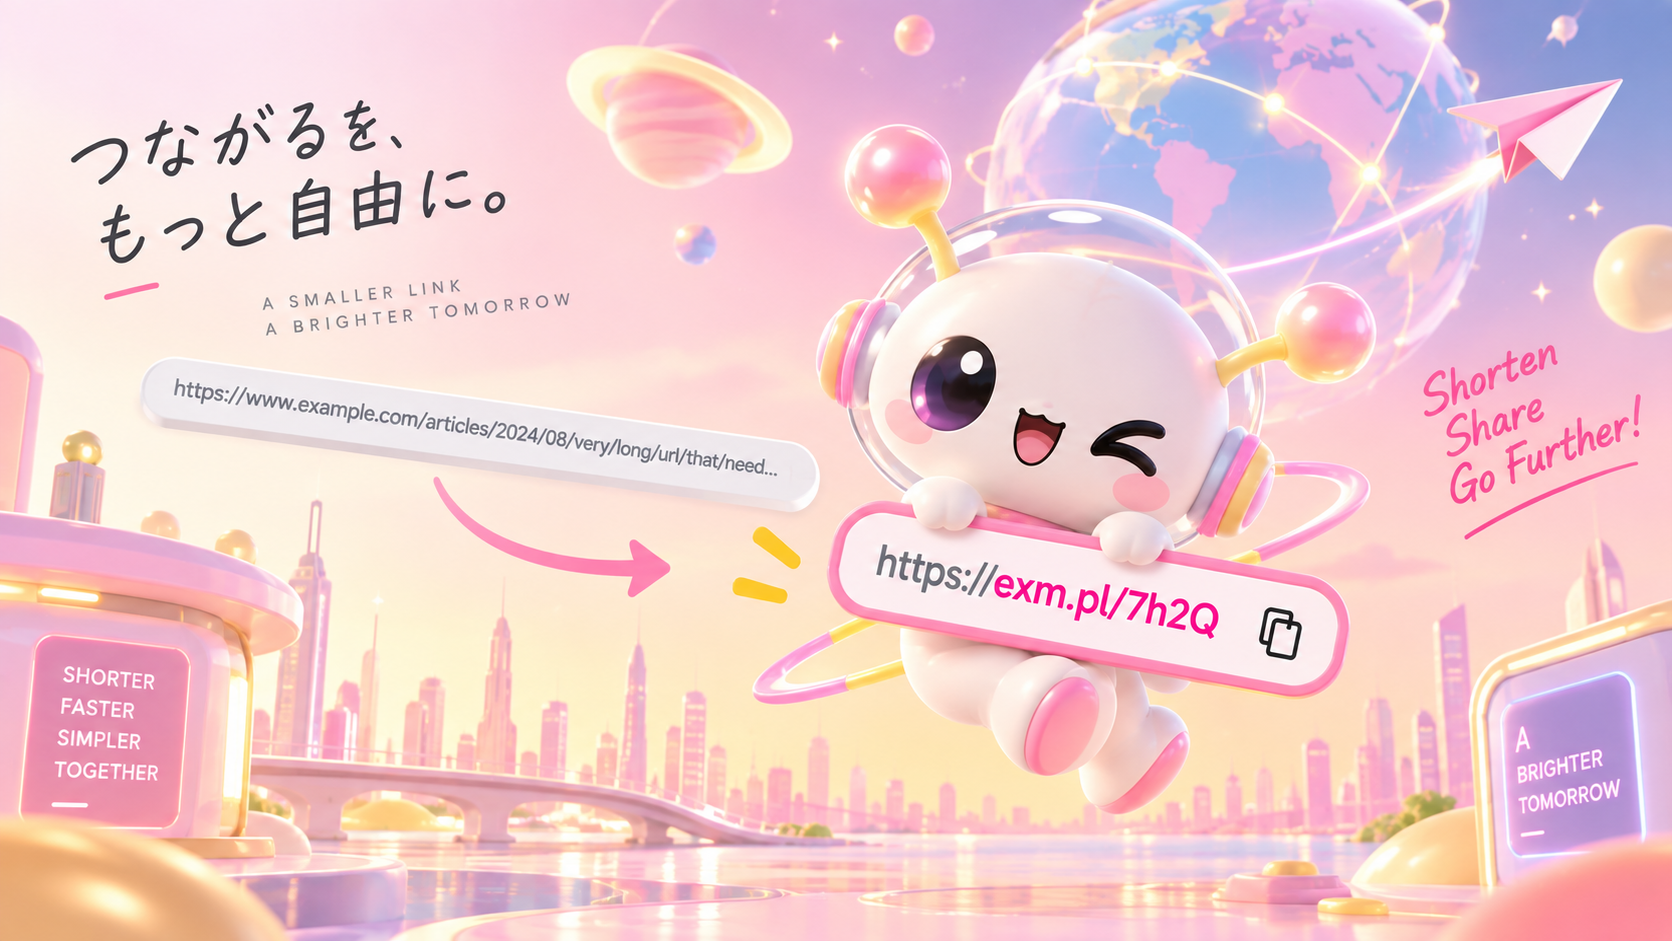
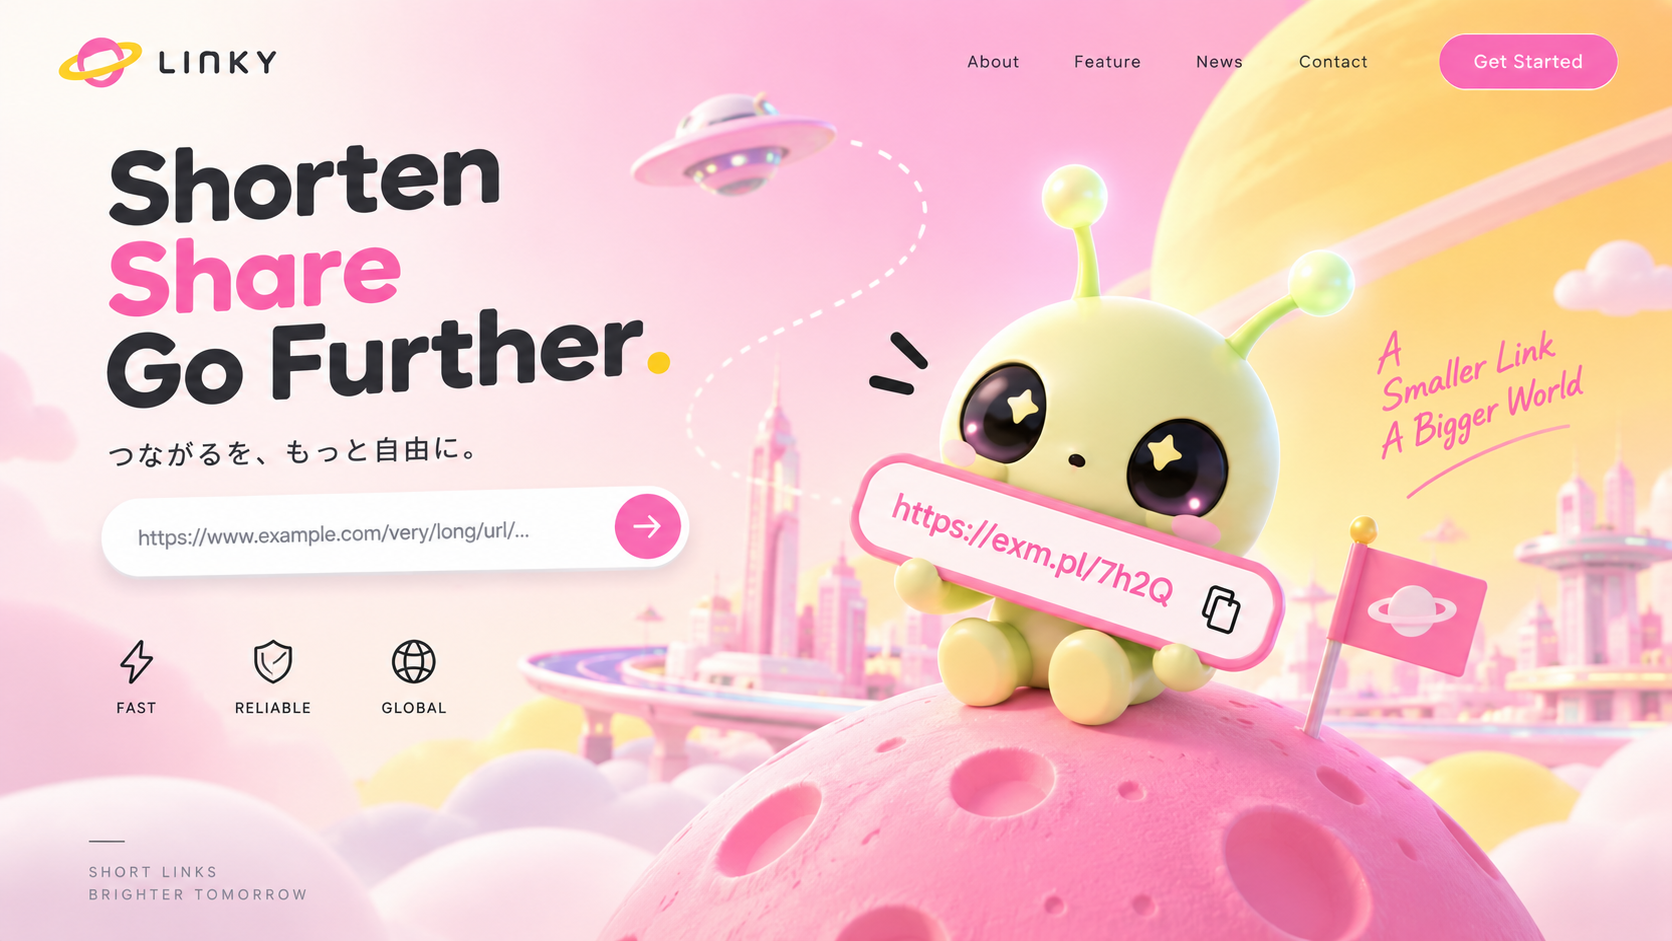
キービジュアルを差し替え
トップページの画像を別のイラストに差し替える。この画像は
ナビゲーションや入力欄を含む1枚絵として完成しているため、
全幅のバナーとして切り抜いて敷くのをやめ、枠付きの作品として
そのまま見せる形に変更する。

diff --git a/index.html b/index.html
@@ -174,23 +174,23 @@ ul{margin:0;padding:0;list-style:none}
   padding-inline:3px;color:var(--ink);
 }
 
-/* ================= hero banner (key visual) ================= */
-.kv{margin:0;position:relative;z-index:3;background:#F8D7E6;border-bottom:var(--bw) solid var(--line);line-height:0}
-.kv img{
-  display:block;width:100%;max-width:100%;
-  aspect-ratio:1671/941;max-height:min(50vh,450px);
-  object-fit:cover;object-position:50% 46%;
+/* ================= hero artwork (key visual) ================= */
+.kv{margin:0 0 clamp(38px,5vw,58px);position:relative}
+.kv-frame{
+  display:block;overflow:hidden;line-height:0;background:#F9DCEA;
+  border:var(--bw) solid var(--line);border-radius:22px;box-shadow:var(--sh-lg);
 }
+.kv-frame img{display:block;width:100%;max-width:100%;height:auto;aspect-ratio:1672/941}
 .kv-tag{
-  position:absolute;left:var(--gut);bottom:-17px;z-index:2;
+  position:absolute;left:20px;bottom:-16px;z-index:2;
   font-family:var(--f-mono);font-size:11.5px;font-weight:700;letter-spacing:.1em;text-transform:uppercase;
   background:var(--band-yellow);color:var(--band-ink);
   border:var(--bw) solid var(--band-ink);border-radius:999px;padding:4px 15px 5px;
   box-shadow:var(--sh-sm);transform:rotate(-1.5deg);line-height:1.6;
 }
 @media (max-width:700px){
-  .kv img{max-height:none;object-position:50% 50%}
-  .kv-tag{font-size:10px;padding:3px 12px 4px;bottom:-15px}
+  .kv-frame{border-radius:16px}
+  .kv-tag{font-size:10px;padding:3px 12px 4px;bottom:-14px;left:14px}
 }
 
 /* ================= hero ================= */
@@ -409,14 +409,17 @@ select.input{appearance:none}
 <!-- ============ HOME ============ -->
 <div class="page" id="page-home">
 
-  <figure class="kv">
-    <img src="hero.png" width="1671" height="941" fetchpriority="high"
-         alt="9lick.me のキャラクターが、宇宙に浮かぶ地球と街並みを背景に、短縮されたURL「https://exm.pl/7h2Q」のバーを抱えて飛んでいるイラスト。左上に「つながるを、もっと自由に。」、右に「Shorten Share Go Further!」のコピー。">
-    <figcaption class="kv-tag">9lick.me — 短縮URL × クリック計測</figcaption>
-  </figure>
-
   <section class="hero">
-    <div class="wrap hero-grid">
+    <div class="wrap">
+      <figure class="kv">
+        <span class="kv-frame">
+          <img src="hero.png" width="1672" height="941" fetchpriority="high"
+               alt="ピンクの月に座ったキャラクターが、短縮されたURL「https://exm.pl/7h2Q」のバーを抱えているイラスト。背景は宇宙に浮かぶ街並みとUFO。「Shorten Share Go Further.」「つながるを、もっと自由に。」のコピーが添えられている。">
+        </span>
+        <figcaption class="kv-tag">9lick.me — 短縮URL × クリック計測</figcaption>
+      </figure>
+
+      <div class="hero-grid">
       <div>
         <p class="eyebrow eyebrow--jp">つながるを、もっと自由に。</p>
         <h1>長いURLを、<br><span class="sticker">4文字</span>にする。</h1>
@@ -453,6 +456,7 @@ select.input{appearance:none}
           </div>
           <p class="hint">デモのため実際のリンクは発行されません。同じURLからは、いつでも同じスラッグが出ます。</p>
         </div>
+      </div>
       </div>
     </div>
   </section>

diff --git a/README.md b/README.md
@@ -9,7 +9,7 @@
 | ファイル | 内容 |
 |---|---|
 | `index.html` | サイト本体（HTML・CSS・JavaScript をすべて内包） |
-| `hero.png` | トップページのキービジュアル（1671×941） |
+| `hero.png` | トップページのキービジュアル（1672×941） |
 
 ## ページ構成
 
